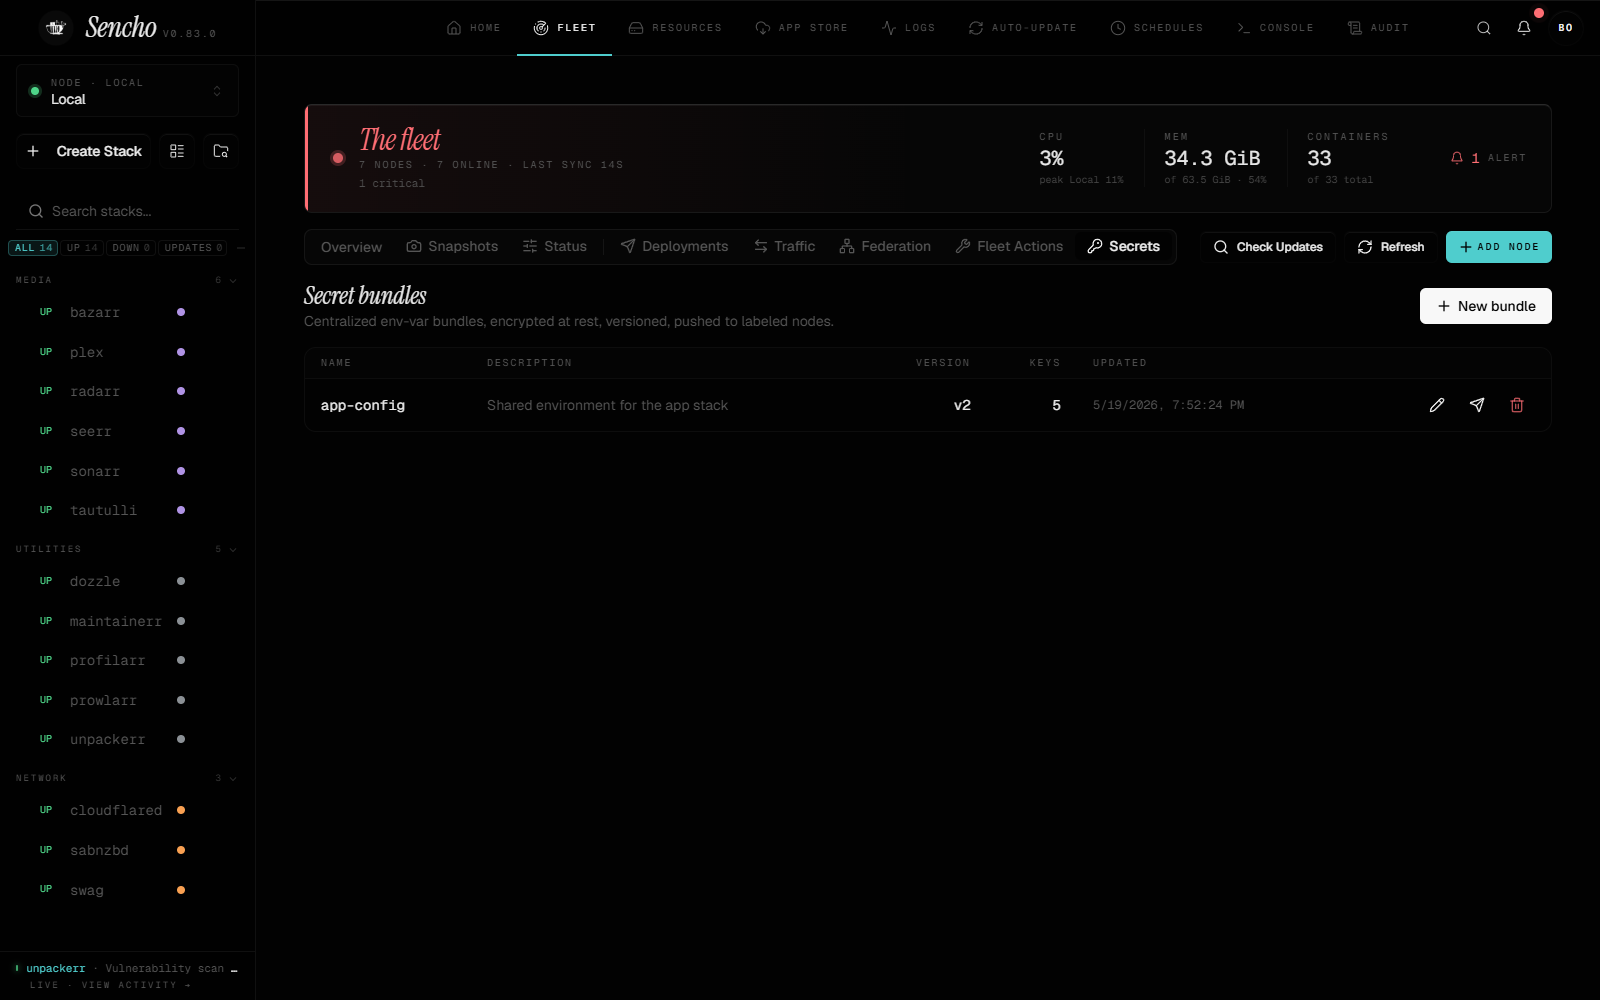
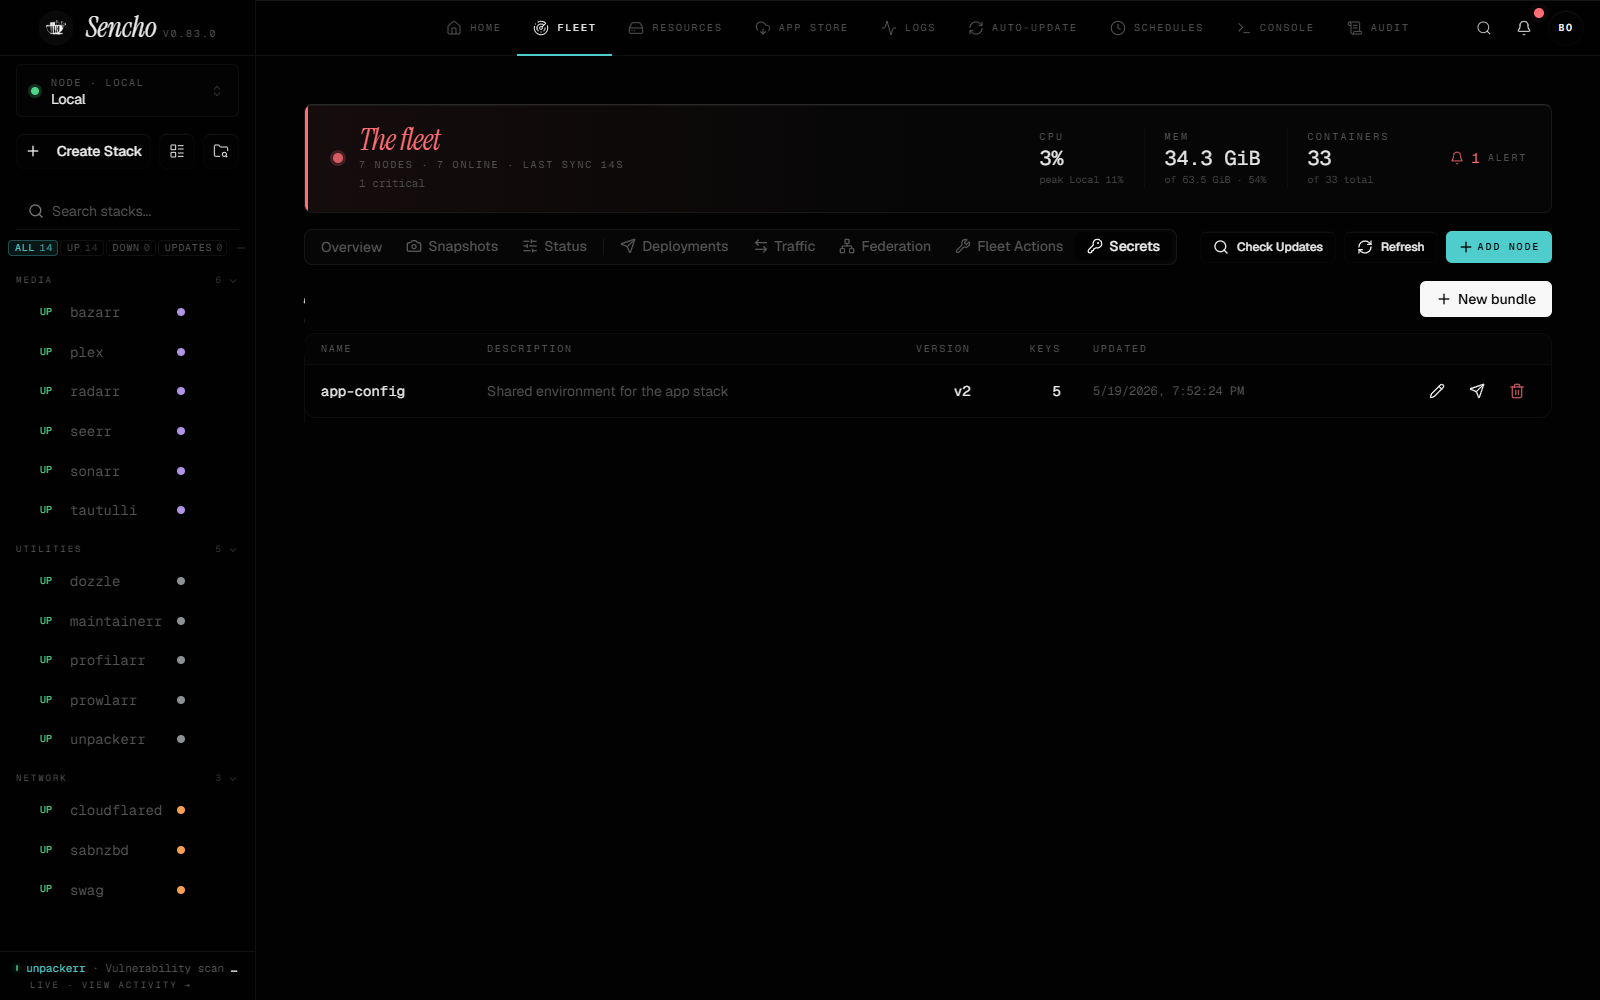
refactor(fleet): drop the repeated title block from Fleet tabs (#2258)
* refactor(fleet): drop the repeated title block from Fleet tabs

Snapshots, Routing, Federation and Secrets no longer repeat the tab label as a
title and subtitle under the Fleet masthead. Tabs with a primary action keep it
in a right-aligned action row.

* refactor(fleet): tidy comments and the Routing empty wrapper

* test(fleet): cover the Snapshots action row for admin and non-admin

* docs(fleet): refresh screenshots for heading-free tabs

Secrets, Snapshots and Federation docs images and their alt text now match the tabs without the repeated title block; action rows sit at the top right where the heading used to be.

diff --git a/frontend/src/components/FleetSnapshots.tsx b/frontend/src/components/FleetSnapshots.tsx
@@ -20,7 +20,7 @@ import { useAuth } from '@/context/AuthContext';
 import { useLicense } from '@/context/LicenseContext';
 import { toast } from '@/components/ui/toast-store';
 import { Tooltip, TooltipContent, TooltipProvider, TooltipTrigger } from '@/components/ui/tooltip';
-import { FleetTabHeading, FleetEmptyState, FleetEmptyCard } from './fleet/FleetEmptyState';
+import { FleetTabActions, FleetEmptyState, FleetEmptyCard } from './fleet/FleetEmptyState';
 
 // --- Types ---
 
@@ -926,33 +926,29 @@ export default function FleetSnapshots() {
 
     return (
         <div className="space-y-4">
-            <FleetTabHeading
-                title="Fleet Snapshots"
-                subtitle="Point-in-time compose backups across every node."
-                action={
-                    <div className="flex items-center gap-2">
-                        {needsPagination && (
-                            <div className="flex items-center gap-1.5">
-                                <Button variant="ghost" size="icon" className="h-6 w-6" disabled={safePage === 0} onClick={() => setPage(safePage - 1)}>
-                                    <ChevronLeft className="h-3.5 w-3.5" strokeWidth={1.5} />
-                                </Button>
-                                <span className="text-xs font-mono tabular-nums text-stat-subtitle min-w-[3rem] text-center">
-                                    {safePage + 1} / {totalPages}
-                                </span>
-                                <Button variant="ghost" size="icon" className="h-6 w-6" disabled={safePage >= totalPages - 1} onClick={() => setPage(safePage + 1)}>
-                                    <ChevronRight className="h-3.5 w-3.5" strokeWidth={1.5} />
-                                </Button>
-                            </div>
-                        )}
-                        {isAdmin && !showCreateForm && (
-                            <Button size="sm" className="gap-1.5" onClick={() => setShowCreateForm(true)}>
-                                <Plus className="w-4 h-4" strokeWidth={1.5} />
-                                Create Snapshot
+            {(needsPagination || (isAdmin && !showCreateForm)) && (
+                <FleetTabActions>
+                    {needsPagination && (
+                        <div className="flex items-center gap-1.5">
+                            <Button variant="ghost" size="icon" className="h-6 w-6" disabled={safePage === 0} onClick={() => setPage(safePage - 1)}>
+                                <ChevronLeft className="h-3.5 w-3.5" strokeWidth={1.5} />
                             </Button>
-                        )}
-                    </div>
-                }
-            />
+                            <span className="text-xs font-mono tabular-nums text-stat-subtitle min-w-[3rem] text-center">
+                                {safePage + 1} / {totalPages}
+                            </span>
+                            <Button variant="ghost" size="icon" className="h-6 w-6" disabled={safePage >= totalPages - 1} onClick={() => setPage(safePage + 1)}>
+                                <ChevronRight className="h-3.5 w-3.5" strokeWidth={1.5} />
+                            </Button>
+                        </div>
+                    )}
+                    {isAdmin && !showCreateForm && (
+                        <Button size="sm" className="gap-1.5" onClick={() => setShowCreateForm(true)}>
+                            <Plus className="w-4 h-4" strokeWidth={1.5} />
+                            Create Snapshot
+                        </Button>
+                    )}
+                </FleetTabActions>
+            )}
 
             {/* Create form */}
             {showCreateForm && (

diff --git a/frontend/src/components/__tests__/FleetSnapshots.test.tsx b/frontend/src/components/__tests__/FleetSnapshots.test.tsx
@@ -6,8 +6,9 @@ vi.mock('@/lib/api', () => ({ apiFetch: vi.fn() }));
 import { apiFetch } from '@/lib/api';
 import { toast } from '@/components/ui/toast-store';
 
+const authState = vi.hoisted(() => ({ isAdmin: true }));
 vi.mock('@/context/AuthContext', () => ({
-  useAuth: () => ({ user: { role: 'admin' }, isAdmin: true }),
+  useAuth: () => ({ user: { role: authState.isAdmin ? 'admin' : 'viewer' }, isAdmin: authState.isAdmin }),
 }));
 vi.mock('@/context/LicenseContext', () => ({
   useLicense: () => ({ isPaid: true }),
@@ -511,5 +512,45 @@ describe('FleetSnapshots list provenance and warning completeness', () => {
     await waitFor(() => expect(
       screen.getByTitle('Imported from an archive rather than captured on this instance'),
     ).toBeInTheDocument());
+  });
+});
+
+describe('FleetSnapshots action row', () => {
+  beforeEach(() => {
+    mockedFetch.mockReset();
+    mockedFetch.mockImplementation(async (path: string) => {
+      if (path === '/fleet/snapshots') {
+        return {
+          ok: true,
+          json: async () => ({
+            snapshots: [{
+              id: 1, description: 'one', created_by: 'admin', node_count: 1, stack_count: 1,
+              skipped_nodes: '[]', skipped_stacks: '[]', created_at: Date.now(), has_documentation: 0,
+            }],
+            total: 1,
+          }),
+        } as Response;
+      }
+      return { ok: true, json: async () => ({}) } as Response;
+    });
+  });
+
+  it('offers Create Snapshot to admins and swaps it for the form when opened', async () => {
+    authState.isAdmin = true;
+    render(<FleetSnapshots />);
+    fireEvent.click(await screen.findByRole('button', { name: /Create Snapshot/ }));
+    expect(screen.getByPlaceholderText('Snapshot description (optional)')).toBeInTheDocument();
+    expect(screen.queryByRole('button', { name: /Create Snapshot/ })).not.toBeInTheDocument();
+  });
+
+  it('renders no Create Snapshot button for a non-admin', async () => {
+    authState.isAdmin = false;
+    try {
+      render(<FleetSnapshots />);
+      await screen.findByText('one');
+      expect(screen.queryByRole('button', { name: /Create Snapshot/ })).not.toBeInTheDocument();
+    } finally {
+      authState.isAdmin = true;
+    }
   });
 });

diff --git a/frontend/src/components/fleet/RoutingTab.tsx b/frontend/src/components/fleet/RoutingTab.tsx
@@ -12,7 +12,7 @@ import { MeshDiagnosticsSheet } from './MeshDiagnosticsSheet';
 import { MeshActivitySheet } from './MeshActivitySheet';
 import { MeshTopologyGraph, type MeshGraphEdgeMode } from './MeshTopologyGraph';
 import { SegmentedControl } from '@/components/ui/segmented-control';
-import { FleetTabHeading, FleetEmptyState, FleetEmptyCard } from './FleetEmptyState';
+import { FleetEmptyState, FleetEmptyCard } from './FleetEmptyState';
 import { describeProbeFailure, fixActionLabel, type MeshFixAction } from './meshMessages';
 import { isMeshCascadeReachable } from './meshImpact';
 import type { MeshAlias, MeshDataPlaneStatus, MeshNodeStatus, MeshProbeResult } from '@/types/mesh';
@@ -175,19 +175,13 @@ export function RoutingTab({ canManageNode, canManageMembership }: {
 
     if (status.length === 0) {
         return (
-            <div className="space-y-4">
-                <FleetTabHeading
-                    title="Routing"
-                    subtitle="Reach containers across nodes by hostname, no VPN required."
+            <FleetEmptyState>
+                <FleetEmptyCard
+                    icon={ArrowLeftRight}
+                    title="No nodes available"
+                    description="Add a node to the fleet to start routing traffic between containers across nodes."
                 />
-                <FleetEmptyState>
-                    <FleetEmptyCard
-                        icon={ArrowLeftRight}
-                        title="No nodes available"
-                        description="Add a node to the fleet to start routing traffic between containers across nodes."
-                    />
-                </FleetEmptyState>
-            </div>
+            </FleetEmptyState>
         );
     }
 

diff --git a/frontend/src/components/fleet/FleetEmptyState.tsx b/frontend/src/components/fleet/FleetEmptyState.tsx
@@ -8,10 +8,11 @@ interface FleetTabHeadingProps {
 }
 
 /**
- * Standardized Fleet tab header: heading-styled title and muted subtitle on the
- * left, an optional primary action on the right. Rendered in both empty and
- * populated states so the tab chrome stays consistent. The title follows the
- * theme heading style (signature italic or calm) via .font-heading.
+ * Title block for the Security and Settings panels that still carry one:
+ * heading-styled title and muted subtitle on the left, an optional primary
+ * action on the right. Fleet tabs do not use it; they use FleetTabActions.
+ * The title follows the theme heading style (signature italic or calm) via
+ * .font-heading.
  */
 export function FleetTabHeading({ title, subtitle, action }: FleetTabHeadingProps) {
     return (
@@ -26,8 +27,17 @@ export function FleetTabHeading({ title, subtitle, action }: FleetTabHeadingProp
 }
 
 /**
+ * Action row for a Fleet tab. The Fleet masthead already names the page and the
+ * tab strip names the tab, so tab content carries only its own primary action,
+ * right-aligned, and no title block.
+ */
+export function FleetTabActions({ children }: { children: ReactNode }) {
+    return <div className="flex flex-wrap items-center justify-end gap-2">{children}</div>;
+}
+
+/**
  * Vertical-centering shell that floats an empty-state card in the middle of the
- * tab body, below the heading.
+ * tab body.
  */
 export function FleetEmptyState({ children }: { children: ReactNode }) {
     return (

diff --git a/frontend/src/components/fleet/secrets/SecretsTab.tsx b/frontend/src/components/fleet/secrets/SecretsTab.tsx
@@ -5,7 +5,7 @@ import { toast } from '@/components/ui/toast-store';
 import { listSecrets, deleteSecret, type SecretSummary } from '@/lib/secretsApi';
 import { SecretBundleSheet } from './SecretBundleSheet';
 import { SecretPushSheet } from './SecretPushSheet';
-import { FleetTabHeading, FleetEmptyState, FleetEmptyCard } from '../FleetEmptyState';
+import { FleetTabActions, FleetEmptyState, FleetEmptyCard } from '../FleetEmptyState';
 
 export function SecretsTab() {
     const [items, setItems] = useState<SecretSummary[]>([]);
@@ -70,15 +70,11 @@ export function SecretsTab() {
 
     return (
         <div className="space-y-4">
-            <FleetTabHeading
-                title="Secret bundles"
-                subtitle="Centralized env-var bundles, encrypted at rest, versioned, pushed to labeled nodes."
-                action={
-                    <Button type="button" onClick={() => setCreating(true)} className="gap-1.5">
-                        <Plus className="w-4 h-4" /> New bundle
-                    </Button>
-                }
-            />
+            <FleetTabActions>
+                <Button type="button" onClick={() => setCreating(true)} className="gap-1.5">
+                    <Plus className="w-4 h-4" /> New bundle
+                </Button>
+            </FleetTabActions>
 
             {items.length === 0 ? (
                 <FleetEmptyState>

diff --git a/frontend/src/components/fleet/FederationTab.tsx b/frontend/src/components/fleet/FederationTab.tsx
@@ -1,7 +1,6 @@
 import { useCallback, useEffect, useMemo, useState } from 'react';
 import { Ban, Loader2, Pin, Server } from 'lucide-react';
 import { toast } from '@/components/ui/toast-store';
-import { FleetTabHeading } from './FleetEmptyState';
 import {
     Select,
     SelectContent,
@@ -95,11 +94,6 @@ export function FederationTab({ canManage, canManageNode }: FederationTabProps) 
 
     return (
         <div className="space-y-6">
-            <FleetTabHeading
-                title="Placement control"
-                subtitle="Mark nodes unschedulable and pin blueprints to specific nodes."
-            />
-
             <section className="rounded-xl border border-card-border bg-card">
                 <div className="px-4 py-3 border-b border-card-border flex items-center justify-between">
                     <div className="flex items-center gap-2">
